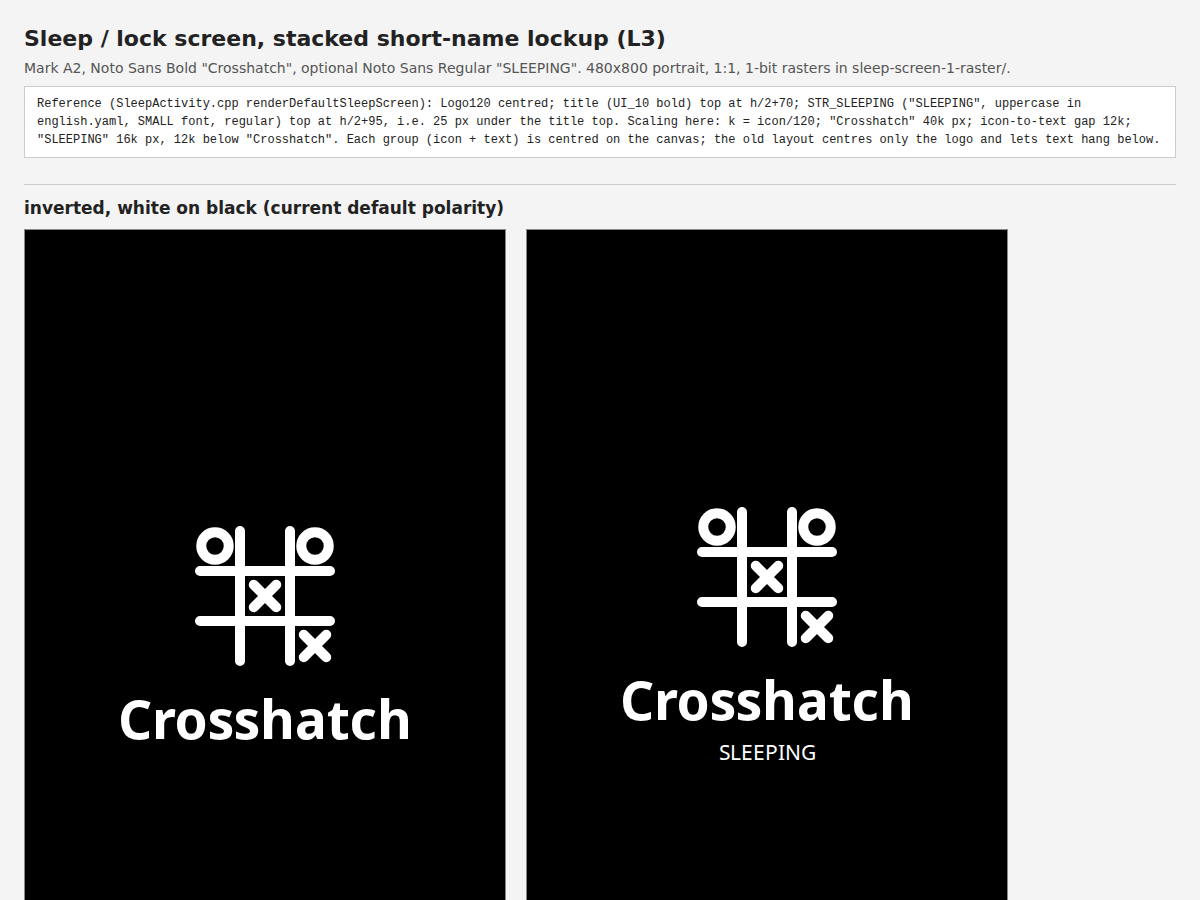
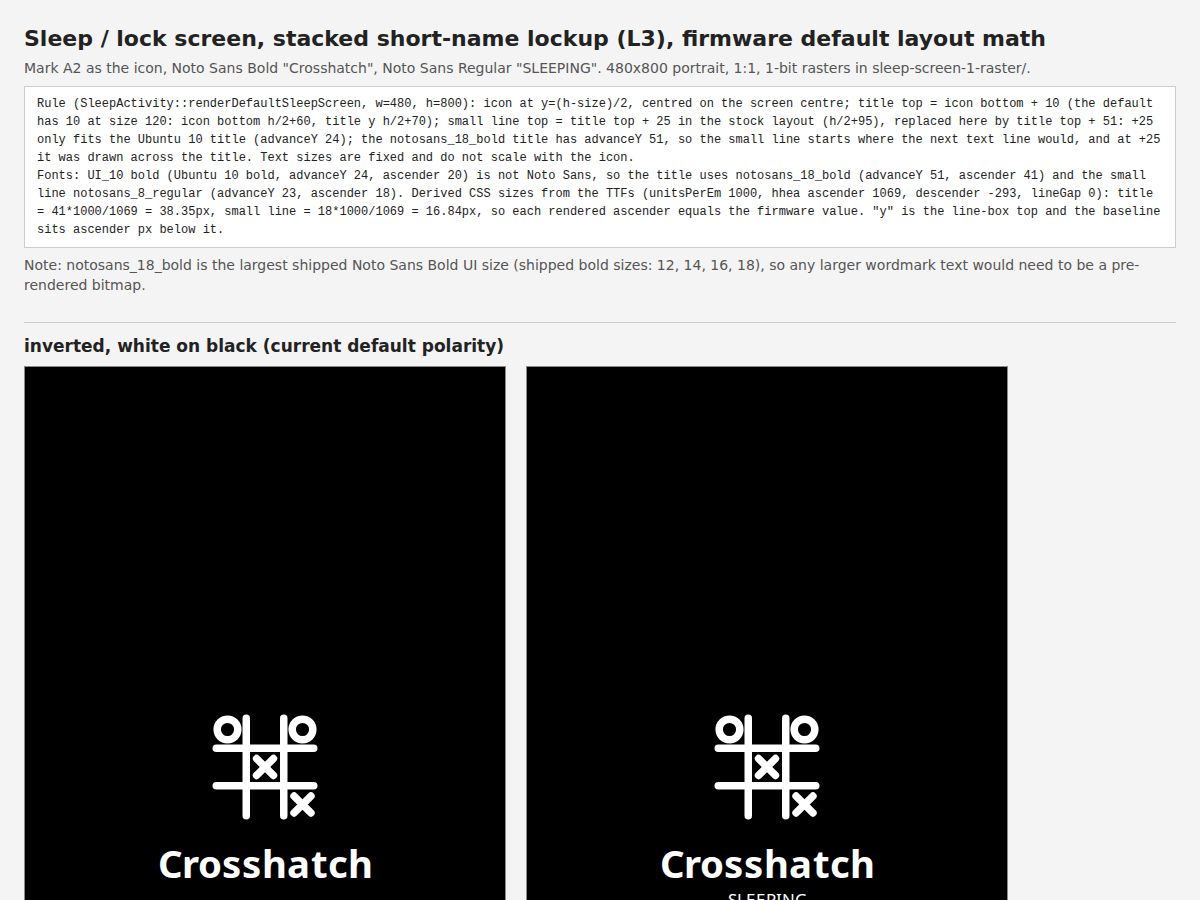
docs: sleep-screen mocks using the firmware layout math
Claude-Session: https://claude.ai/code/session_0126A7paQJWWrjuxfQ387AEm

diff --git a/_bmad-output/planning-artifacts/ux-designs/ux-crosshatch-player-2026-10-03/.working/sleep-screen-1.html b/_bmad-output/planning-artifacts/ux-designs/ux-crosshatch-player-2026-10-03/.working/sleep-screen-1.html
@@ -1,10 +1,11 @@
[2 lines of base64/hex data omitted]
 body{font:14px/1.4 system-ui,sans-serif;margin:0;padding:24px;width:1152px;background:#f4f4f4;color:#222}
 h1{font-size:22px;margin:0 0 4px}h2{font-size:17px;margin:26px 0 8px;border-top:1px solid #ccc;padding-top:12px}
-.note{color:#555;margin:0 0 8px}.row{display:flex;gap:20px;align-items:flex-start}.cell{display:flex;flex-direction:column;gap:4px}.cap{font-size:12px;color:#444;max-width:480px}
-.mock{width:480px;height:800px;position:relative;border:1px solid #888;box-sizing:content-box;display:flex;align-items:center;justify-content:center;overflow:hidden}
+.note{color:#555;margin:0 0 8px}.row{display:flex;gap:20px;align-items:flex-start;margin-bottom:14px}.cell{display:flex;flex-direction:column;gap:4px}.cap{font-size:12px;color:#444;width:480px}
+.mock{width:480px;height:800px;position:relative;border:1px solid #888;box-sizing:content-box;overflow:hidden}
 .pos{background:#fff;color:#000}.inv{background:#000;color:#fff}
-.lk{display:flex;flex-direction:column;align-items:center;line-height:1;white-space:nowrap}
-.t{font-family:NSB;font-weight:700;display:block}.s{font-family:NSR;font-weight:400;display:block}
+.mock svg{position:absolute;left:0;right:0;margin:0 auto}
+.t,.s{position:absolute;left:0;right:0;text-align:center;white-space:nowrap;line-height:normal}
+.t{font-family:NSB;font-weight:700}.s{font-family:NSR;font-weight:400}
 .spec{font:12px/1.5 ui-monospace,monospace;background:#fff;border:1px solid #ccc;padding:8px 12px;margin:8px 0}
-</style></head><body><svg width="0" height="0" style="position:absolute"><defs><symbol id="A2" viewBox="0 0 256 256"><g fill="none" stroke-width="16" stroke-linecap="round" stroke-linejoin="round"><g class="g" style="stroke:var(--cg)"><path d="M88 24V232M168 24V232M24 88H232M24 168H232"/></g><circle class="o" style="stroke:var(--co)" cx="48" cy="48" r="22"/><path class="x" style="stroke:var(--cx)" d="M110 110L146 146M146 110L110 146"/><path class="x" style="stroke:var(--cx)" d="M190 190L226 226M226 190L190 226"/><circle class="o" style="stroke:var(--co)" cx="208" cy="48" r="22"/></g></symbol></defs></svg><h1>Sleep / lock screen, stacked short-name lockup (L3)</h1><p class="note">Mark A2, Noto Sans Bold "Crosshatch", optional Noto Sans Regular "SLEEPING". 480x800 portrait, 1:1, 1-bit rasters in sleep-screen-1-raster/.</p><div class="spec">Reference (SleepActivity.cpp renderDefaultSleepScreen): Logo120 centred; title (UI_10 bold) top at h/2+70; STR_SLEEPING ("SLEEPING", uppercase in english.yaml, SMALL font, regular) top at h/2+95, i.e. 25 px under the title top. Scaling here: k = icon/120; "Crosshatch" 40k px; icon-to-text gap 12k; "SLEEPING" 16k px, 12k below "Crosshatch". Each group (icon + text) is centred on the canvas; the old layout centres only the logo and lets text hang below.</div><h2>inverted, white on black (current default polarity)</h2><div class="row"><div class="cell"><div class="mock inv" id="mock-inv-160-v1"><div class="lk"><svg width="160" height="160" viewBox="0 0 256 256" style="--cg:#fff;--cx:#fff;--co:#fff"><use href="#A2"/></svg><span class="t" style="font-size:53px;margin-top:16px">Crosshatch</span></div></div><div class="cap">inverted, icon 160px, "Crosshatch" 53px, icon + "Crosshatch"</div></div><div class="cell"><div class="mock inv" id="mock-inv-160-v2"><div class="lk"><svg width="160" height="160" viewBox="0 0 256 256" style="--cg:#fff;--cx:#fff;--co:#fff"><use href="#A2"/></svg><span class="t" style="font-size:53px;margin-top:16px">Crosshatch</span><span class="s" style="font-size:21px;margin-top:16px">SLEEPING</span></div></div><div class="cap">inverted, icon 160px, "Crosshatch" 53px, icon + "Crosshatch" + "SLEEPING"</div></div></div><div class="row"><div class="cell"><div class="mock inv" id="mock-inv-200-v1"><div class="lk"><svg width="200" height="200" viewBox="0 0 256 256" style="--cg:#fff;--cx:#fff;--co:#fff"><use href="#A2"/></svg><span class="t" style="font-size:67px;margin-top:20px">Crosshatch</span></div></div><div class="cap">inverted, icon 200px, "Crosshatch" 67px, icon + "Crosshatch"</div></div><div class="cell"><div class="mock inv" id="mock-inv-200-v2"><div class="lk"><svg width="200" height="200" viewBox="0 0 256 256" style="--cg:#fff;--cx:#fff;--co:#fff"><use href="#A2"/></svg><span class="t" style="font-size:67px;margin-top:20px">Crosshatch</span><span class="s" style="font-size:27px;margin-top:20px">SLEEPING</span></div></div><div class="cap">inverted, icon 200px, "Crosshatch" 67px, icon + "Crosshatch" + "SLEEPING"</div></div></div><div class="row"><div class="cell"><div class="mock inv" id="mock-inv-240-v1"><div class="lk"><svg width="240" height="240" viewBox="0 0 256 256" style="--cg:#fff;--cx:#fff;--co:#fff"><use href="#A2"/></svg><span class="t" style="font-size:80px;margin-top:24px">Crosshatch</span></div></div><div class="cap">inverted, icon 240px, "Crosshatch" 80px, icon + "Crosshatch"</div></div><div class="cell"><div class="mock inv" id="mock-inv-240-v2"><div class="lk"><svg width="240" height="240" viewBox="0 0 256 256" style="--cg:#fff;--cx:#fff;--co:#fff"><use href="#A2"/></svg><span class="t" style="font-size:80px;margin-top:24px">Crosshatch</span><span class="s" style="font-size:32px;margin-top:24px">SLEEPING</span></div></div><div class="cap">inverted, icon 240px, "Crosshatch" 80px, icon + "Crosshatch" + "SLEEPING"</div></div></div><h2>black on white</h2><div class="row"><div class="cell"><div class="mock pos" id="mock-pos-160-v1"><div class="lk"><svg width="160" height="160" viewBox="0 0 256 256" style="--cg:#000;--cx:#000;--co:#000"><use href="#A2"/></svg><span class="t" style="font-size:53px;margin-top:16px">Crosshatch</span></div></div><div class="cap">black on white, icon 160px, "Crosshatch" 53px, icon + "Crosshatch"</div></div><div class="cell"><div class="mock pos" id="mock-pos-160-v2"><div class="lk"><svg width="160" height="160" viewBox="0 0 256 256" style="--cg:#000;--cx:#000;--co:#000"><use href="#A2"/></svg><span class="t" style="font-size:53px;margin-top:16px">Crosshatch</span><span class="s" style="font-size:21px;margin-top:16px">SLEEPING</span></div></div><div class="cap">black on white, icon 160px, "Crosshatch" 53px, icon + "Crosshatch" + "SLEEPING"</div></div></div><div class="row"><div class="cell"><div class="mock pos" id="mock-pos-200-v1"><div class="lk"><svg width="200" height="200" viewBox="0 0 256 256" style="--cg:#000;--cx:#000;--co:#000"><use href="#A2"/></svg><span class="t" style="font-size:67px;margin-top:20px">Crosshatch</span></div></div><div class="cap">black on white, icon 200px, "Crosshatch" 67px, icon + "Crosshatch"</div></div><div class="cell"><div class="mock pos" id="mock-pos-200-v2"><div class="lk"><svg width="200" height="200" viewBox="0 0 256 256" style="--cg:#000;--cx:#000;--co:#000"><use href="#A2"/></svg><span class="t" style="font-size:67px;margin-top:20px">Crosshatch</span><span class="s" style="font-size:27px;margin-top:20px">SLEEPING</span></div></div><div class="cap">black on white, icon 200px, "Crosshatch" 67px, icon + "Crosshatch" + "SLEEPING"</div></div></div><div class="row"><div class="cell"><div class="mock pos" id="mock-pos-240-v1"><div class="lk"><svg width="240" height="240" viewBox="0 0 256 256" style="--cg:#000;--cx:#000;--co:#000"><use href="#A2"/></svg><span class="t" style="font-size:80px;margin-top:24px">Crosshatch</span></div></div><div class="cap">black on white, icon 240px, "Crosshatch" 80px, icon + "Crosshatch"</div></div><div class="cell"><div class="mock pos" id="mock-pos-240-v2"><div class="lk"><svg width="240" height="240" viewBox="0 0 256 256" style="--cg:#000;--cx:#000;--co:#000"><use href="#A2"/></svg><span class="t" style="font-size:80px;margin-top:24px">Crosshatch</span><span class="s" style="font-size:32px;margin-top:24px">SLEEPING</span></div></div><div class="cap">black on white, icon 240px, "Crosshatch" 80px, icon + "Crosshatch" + "SLEEPING"</div></div></div></body></html>
+.t{font-size:38.35px}.s{font-size:16.84px}</style></head><body><svg width="0" height="0" style="position:absolute"><defs><symbol id="A2" viewBox="0 0 256 256"><g fill="none" stroke-width="16" stroke-linecap="round" stroke-linejoin="round"><g class="g" style="stroke:var(--cg)"><path d="M88 24V232M168 24V232M24 88H232M24 168H232"/></g><circle class="o" style="stroke:var(--co)" cx="48" cy="48" r="22"/><path class="x" style="stroke:var(--cx)" d="M110 110L146 146M146 110L110 146"/><path class="x" style="stroke:var(--cx)" d="M190 190L226 226M226 190L190 226"/><circle class="o" style="stroke:var(--co)" cx="208" cy="48" r="22"/></g></symbol></defs></svg><h1>Sleep / lock screen, stacked short-name lockup (L3), firmware default layout math</h1><p class="note">Mark A2 as the icon, Noto Sans Bold "Crosshatch", Noto Sans Regular "SLEEPING". 480x800 portrait, 1:1, 1-bit rasters in sleep-screen-1-raster/.</p><div class="spec">Rule (SleepActivity::renderDefaultSleepScreen, w=480, h=800): icon at y=(h-size)/2, centred on the screen centre; title top = icon bottom + 10 (the default has 10 at size 120: icon bottom h/2+60, title y h/2+70); small line top = title top + 25 in the stock layout (h/2+95), replaced here by title top + 51: +25 only fits the Ubuntu 10 title (advanceY 24); the notosans_18_bold title has advanceY 51, so the small line starts where the next text line would, and at +25 it was drawn across the title. Text sizes are fixed and do not scale with the icon.<br>Fonts: UI_10 bold (Ubuntu 10 bold, advanceY 24, ascender 20) is not Noto Sans, so the title uses notosans_18_bold (advanceY 51, ascender 41) and the small line notosans_8_regular (advanceY 23, ascender 18). Derived CSS sizes from the TTFs (unitsPerEm 1000, hhea ascender 1069, descender -293, lineGap 0): title = 41*1000/1069 = 38.35px, small line = 18*1000/1069 = 16.84px, so each rendered ascender equals the firmware value. "y" is the line-box top and the baseline sits ascender px below it.</div><p class="note">Note: notosans_18_bold is the largest shipped Noto Sans Bold UI size (shipped bold sizes: 12, 14, 16, 18), so any larger wordmark text would need to be a pre-rendered bitmap.</p><h2>inverted, white on black (current default polarity)</h2><div class="row"><div class="cell"><div class="mock inv" id="mock-inv-120-v1"><svg width="120" height="120" viewBox="0 0 256 256" style="top:340px;--cg:#fff;--cx:#fff;--co:#fff"><use href="#A2"/></svg><span class="t" style="top:470px">Crosshatch</span></div><div class="cap">inverted, icon 120px (reference, firmware default size), icon + "Crosshatch". Icon top y=340, icon bottom y=460, title top y=470. Title 38.35px, small line 16.84px.</div></div><div class="cell"><div class="mock inv" id="mock-inv-120-v2"><svg width="120" height="120" viewBox="0 0 256 256" style="top:340px;--cg:#fff;--cx:#fff;--co:#fff"><use href="#A2"/></svg><span class="t" style="top:470px">Crosshatch</span><span class="s" style="top:521px">SLEEPING</span></div><div class="cap">inverted, icon 120px (reference, firmware default size), icon + "Crosshatch" + "SLEEPING". Icon top y=340, icon bottom y=460, title top y=470, small-line top y=521. Title 38.35px, small line 16.84px.</div></div></div><div class="row"><div class="cell"><div class="mock inv" id="mock-inv-160-v1"><svg width="160" height="160" viewBox="0 0 256 256" style="top:320px;--cg:#fff;--cx:#fff;--co:#fff"><use href="#A2"/></svg><span class="t" style="top:490px">Crosshatch</span></div><div class="cap">inverted, icon 160px, icon + "Crosshatch". Icon top y=320, icon bottom y=480, title top y=490. Title 38.35px, small line 16.84px.</div></div><div class="cell"><div class="mock inv" id="mock-inv-160-v2"><svg width="160" height="160" viewBox="0 0 256 256" style="top:320px;--cg:#fff;--cx:#fff;--co:#fff"><use href="#A2"/></svg><span class="t" style="top:490px">Crosshatch</span><span class="s" style="top:541px">SLEEPING</span></div><div class="cap">inverted, icon 160px, icon + "Crosshatch" + "SLEEPING". Icon top y=320, icon bottom y=480, title top y=490, small-line top y=541. Title 38.35px, small line 16.84px.</div></div></div><div class="row"><div class="cell"><div class="mock inv" id="mock-inv-200-v1"><svg width="200" height="200" viewBox="0 0 256 256" style="top:300px;--cg:#fff;--cx:#fff;--co:#fff"><use href="#A2"/></svg><span class="t" style="top:510px">Crosshatch</span></div><div class="cap">inverted, icon 200px, icon + "Crosshatch". Icon top y=300, icon bottom y=500, title top y=510. Title 38.35px, small line 16.84px.</div></div><div class="cell"><div class="mock inv" id="mock-inv-200-v2"><svg width="200" height="200" viewBox="0 0 256 256" style="top:300px;--cg:#fff;--cx:#fff;--co:#fff"><use href="#A2"/></svg><span class="t" style="top:510px">Crosshatch</span><span class="s" style="top:561px">SLEEPING</span></div><div class="cap">inverted, icon 200px, icon + "Crosshatch" + "SLEEPING". Icon top y=300, icon bottom y=500, title top y=510, small-line top y=561. Title 38.35px, small line 16.84px.</div></div></div><div class="row"><div class="cell"><div class="mock inv" id="mock-inv-240-v1"><svg width="240" height="240" viewBox="0 0 256 256" style="top:280px;--cg:#fff;--cx:#fff;--co:#fff"><use href="#A2"/></svg><span class="t" style="top:530px">Crosshatch</span></div><div class="cap">inverted, icon 240px, icon + "Crosshatch". Icon top y=280, icon bottom y=520, title top y=530. Title 38.35px, small line 16.84px.</div></div><div class="cell"><div class="mock inv" id="mock-inv-240-v2"><svg width="240" height="240" viewBox="0 0 256 256" style="top:280px;--cg:#fff;--cx:#fff;--co:#fff"><use href="#A2"/></svg><span class="t" style="top:530px">Crosshatch</span><span class="s" style="top:581px">SLEEPING</span></div><div class="cap">inverted, icon 240px, icon + "Crosshatch" + "SLEEPING". Icon top y=280, icon bottom y=520, title top y=530, small-line top y=581. Title 38.35px, small line 16.84px.</div></div></div><h2>black on white</h2><div class="row"><div class="cell"><div class="mock pos" id="mock-pos-120-v1"><svg width="120" height="120" viewBox="0 0 256 256" style="top:340px;--cg:#000;--cx:#000;--co:#000"><use href="#A2"/></svg><span class="t" style="top:470px">Crosshatch</span></div><div class="cap">black on white, icon 120px (reference, firmware default size), icon + "Crosshatch". Icon top y=340, icon bottom y=460, title top y=470. Title 38.35px, small line 16.84px.</div></div><div class="cell"><div class="mock pos" id="mock-pos-120-v2"><svg width="120" height="120" viewBox="0 0 256 256" style="top:340px;--cg:#000;--cx:#000;--co:#000"><use href="#A2"/></svg><span class="t" style="top:470px">Crosshatch</span><span class="s" style="top:521px">SLEEPING</span></div><div class="cap">black on white, icon 120px (reference, firmware default size), icon + "Crosshatch" + "SLEEPING". Icon top y=340, icon bottom y=460, title top y=470, small-line top y=521. Title 38.35px, small line 16.84px.</div></div></div><div class="row"><div class="cell"><div class="mock pos" id="mock-pos-160-v1"><svg width="160" height="160" viewBox="0 0 256 256" style="top:320px;--cg:#000;--cx:#000;--co:#000"><use href="#A2"/></svg><span class="t" style="top:490px">Crosshatch</span></div><div class="cap">black on white, icon 160px, icon + "Crosshatch". Icon top y=320, icon bottom y=480, title top y=490. Title 38.35px, small line 16.84px.</div></div><div class="cell"><div class="mock pos" id="mock-pos-160-v2"><svg width="160" height="160" viewBox="0 0 256 256" style="top:320px;--cg:#000;--cx:#000;--co:#000"><use href="#A2"/></svg><span class="t" style="top:490px">Crosshatch</span><span class="s" style="top:541px">SLEEPING</span></div><div class="cap">black on white, icon 160px, icon + "Crosshatch" + "SLEEPING". Icon top y=320, icon bottom y=480, title top y=490, small-line top y=541. Title 38.35px, small line 16.84px.</div></div></div><div class="row"><div class="cell"><div class="mock pos" id="mock-pos-200-v1"><svg width="200" height="200" viewBox="0 0 256 256" style="top:300px;--cg:#000;--cx:#000;--co:#000"><use href="#A2"/></svg><span class="t" style="top:510px">Crosshatch</span></div><div class="cap">black on white, icon 200px, icon + "Crosshatch". Icon top y=300, icon bottom y=500, title top y=510. Title 38.35px, small line 16.84px.</div></div><div class="cell"><div class="mock pos" id="mock-pos-200-v2"><svg width="200" height="200" viewBox="0 0 256 256" style="top:300px;--cg:#000;--cx:#000;--co:#000"><use href="#A2"/></svg><span class="t" style="top:510px">Crosshatch</span><span class="s" style="top:561px">SLEEPING</span></div><div class="cap">black on white, icon 200px, icon + "Crosshatch" + "SLEEPING". Icon top y=300, icon bottom y=500, title top y=510, small-line top y=561. Title 38.35px, small line 16.84px.</div></div></div><div class="row"><div class="cell"><div class="mock pos" id="mock-pos-240-v1"><svg width="240" height="240" viewBox="0 0 256 256" style="top:280px;--cg:#000;--cx:#000;--co:#000"><use href="#A2"/></svg><span class="t" style="top:530px">Crosshatch</span></div><div class="cap">black on white, icon 240px, icon + "Crosshatch". Icon top y=280, icon bottom y=520, title top y=530. Title 38.35px, small line 16.84px.</div></div><div class="cell"><div class="mock pos" id="mock-pos-240-v2"><svg width="240" height="240" viewBox="0 0 256 256" style="top:280px;--cg:#000;--cx:#000;--co:#000"><use href="#A2"/></svg><span class="t" style="top:530px">Crosshatch</span><span class="s" style="top:581px">SLEEPING</span></div><div class="cap">black on white, icon 240px, icon + "Crosshatch" + "SLEEPING". Icon top y=280, icon bottom y=520, title top y=530, small-line top y=581. Title 38.35px, small line 16.84px.</div></div></div></body></html>

diff --git a/_bmad-output/planning-artifacts/ux-designs/ux-crosshatch-player-2026-10-03/.memlog.md b/_bmad-output/planning-artifacts/ux-designs/ux-crosshatch-player-2026-10-03/.memlog.md
@@ -1,6 +1,6 @@
 ---
 topic: Crosshatch brand mark: logo, default game icon, power-off screen, website
-updated: 2026-10-03T18:25
+updated: 2026-10-03T18:28
 ---
 
 - (decision) Scope: brand mark for Crosshatch. Roles: (1) logo, (2) default icon for games that supply none, (3) replaces CrossPoint logo where used today, e.g. power-off screen, (4) future website.
@@ -29,3 +29,4 @@ updated: 2026-10-03T18:25
 - (decision) Lock/sleep screen: use the short name only ('Crosshatch', stacked under the icon, not 'Crosshatch Player'), with the icon larger than the current 120px. Open: exact icon size; whether the small 'Sleeping' line under the name stays.
 - (event) Rendered .working/sleep-screen-1.html: stacked short-name lockup on 480x800, icon 160/200/240 px, each with and without a small SLEEPING line, inverted and positive. Code facts: renderDefaultSleepScreen and BootActivity draw Logo120 (120x120 1-bit bitmap, src/images/Logo120.h) centred, title STR_CROSSPOINT (UI_10 bold) at h/2+70, small STR_SLEEPING/STR_BOOTING (SMALL font) at h/2+95; inverted unless sleepScreen==LIGHT; BootActivity also draws CROSSPOINT_VERSION at h-30. SleepActivity.cpp and BootActivity.cpp are upstream files not listed in docs/crosshatch/upstream-touches.md.
 - (change) User asked to redo sleep mocks with the default sleep math: icon centred on screen centre; title top = h/2+70 (10px under a 120px icon); small line +25 under title; text sizes fixed. Findings: current title font is Ubuntu 10 bold (advanceY 24), small is Noto Sans 8 regular; shipped Noto Sans Bold UI sizes are only 12/14/16/18 (18pt: advanceY 51, ascender 41), so a larger Noto Sans Bold wordmark on device would need to be a pre-rendered bitmap. Mocks re-rendered with title = notosans_18_bold, small = notosans_8_regular, title top = icon bottom + 10.
+- (event) Sleep-screen mocks redone with firmware math: icon centred on screen centre, title top = icon bottom + 10, title notosans_18_bold (38.35px css), small line notosans_8_regular (16.84px css). First redo used small-line top = title top + 25 and collided with the 18pt Noto title (+25 only fits Ubuntu 10); corrected to +51 (title advanceY). Verified clear at 120/160/200/240, both polarities. Group sits ~40px below screen centre because icon stays centred. y table: icon top 340/320/300/280, title top 470/490/510/530, small-line top 521/541/561/581 for 120/160/200/240. Pick of icon size and whether SLEEPING stays: open.
